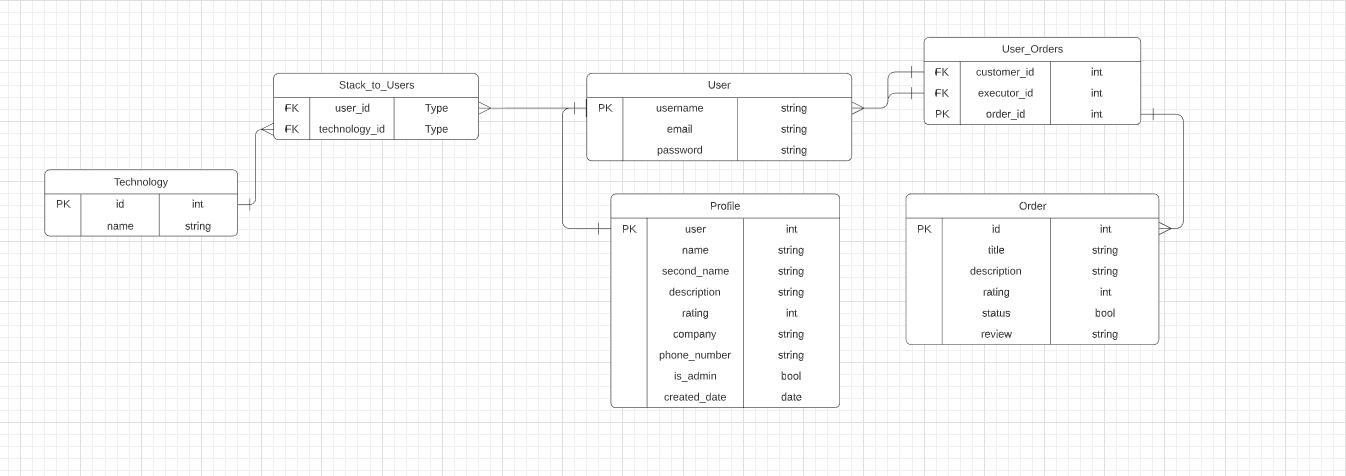
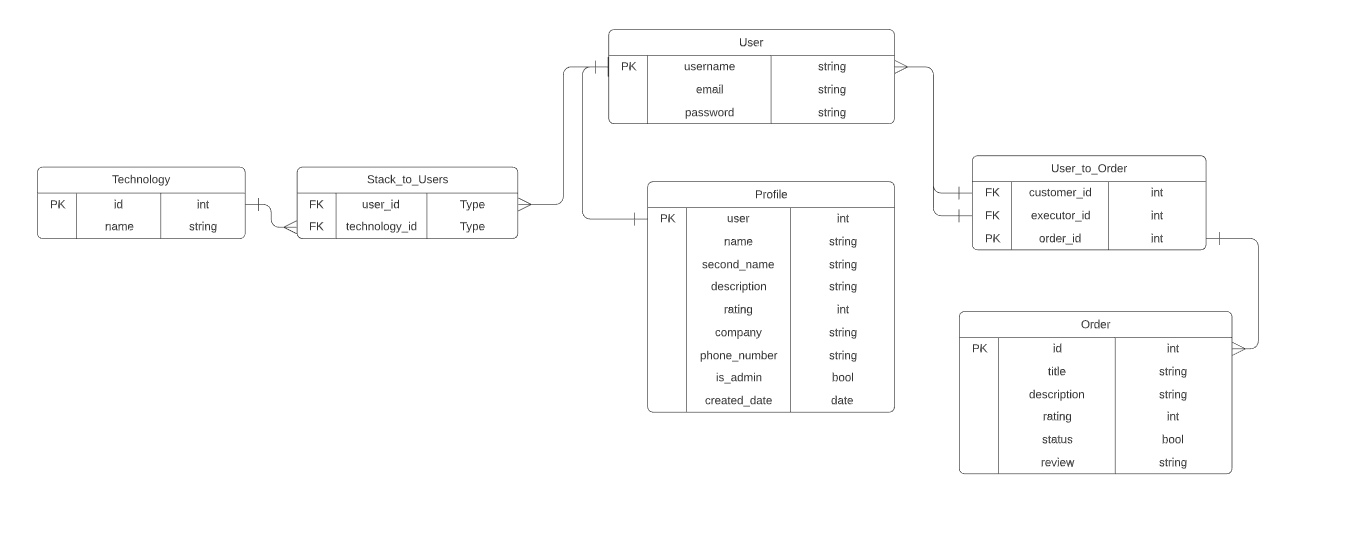
mage migration and changed db architecture

diff --git a/server/app/models.py b/server/app/models.py
@@ -22,15 +22,12 @@ class Order(models.Model):
     description = models.TextField(null=True)
     rating = models.FloatField(null=True)
     review = models.TextField(null=True)
+    isComplete = models.BooleanField(default=False)
 
-class Users_Order(models.Model):
+class User_to_Order(models.Model):
     customer_id = models.ForeignKey(User,on_delete = models.CASCADE, related_name='customer')
     executor_id = models.ForeignKey(User,on_delete = models.CASCADE, related_name='executor')
     order_id = models.ForeignKey(Order,on_delete = models.CASCADE)
-
-class Status(models.Model):
-    id = models.OneToOneField(Order,on_delete = models.CASCADE,primary_key=True)
-    name = models.TextField()
 
 
 class Technology(models.Model):
@@ -39,9 +36,4 @@ class Technology(models.Model):
 
 class Stack_to_User(models.Model):
     user_id = models.ForeignKey(User,on_delete = models.CASCADE)
-    technology_id = models.ForeignKey(Technology,on_delete = models.CASCADE)
-
-
-class Stack_to_Order(models.Model):
-    order_id = models.ForeignKey(Order,on_delete = models.CASCADE)
     technology_id = models.ForeignKey(Technology,on_delete = models.CASCADE)

diff --git a/server/app/migrations/0004_auto_20201117_1059.py b/server/app/migrations/0004_auto_20201117_1059.py
@@ -1,0 +1,34 @@
+# Generated by Django 3.1.3 on 2020-11-17 10:59
+
+from django.conf import settings
+from django.db import migrations, models
+
+
+class Migration(migrations.Migration):
+
+    dependencies = [
+        migrations.swappable_dependency(settings.AUTH_USER_MODEL),
+        ('app', '0003_auto_20201109_1335'),
+    ]
+
+    operations = [
+        migrations.RenameModel(
+            old_name='Users_Order',
+            new_name='User_to_Order',
+        ),
+        migrations.RemoveField(
+            model_name='status',
+            name='id',
+        ),
+        migrations.AddField(
+            model_name='order',
+            name='isComplete',
+            field=models.BooleanField(default=False),
+        ),
+        migrations.DeleteModel(
+            name='Stack_to_Order',
+        ),
+        migrations.DeleteModel(
+            name='Status',
+        ),
+    ]
